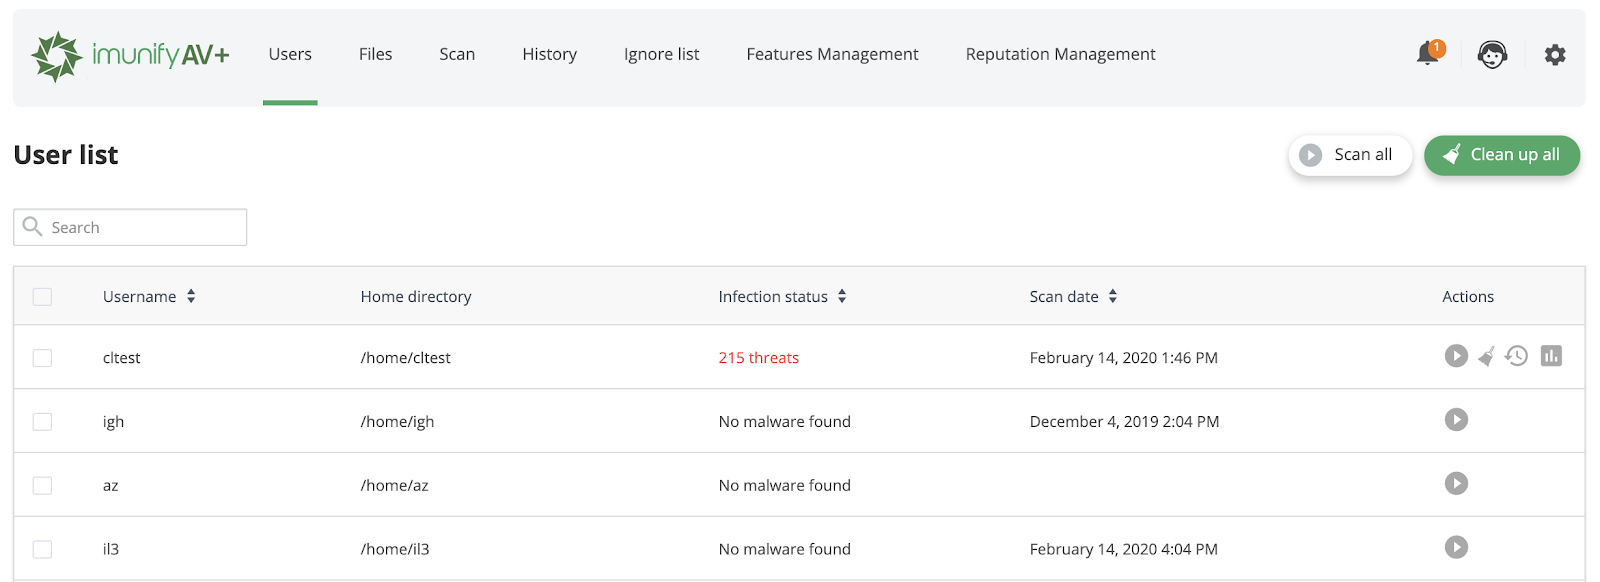
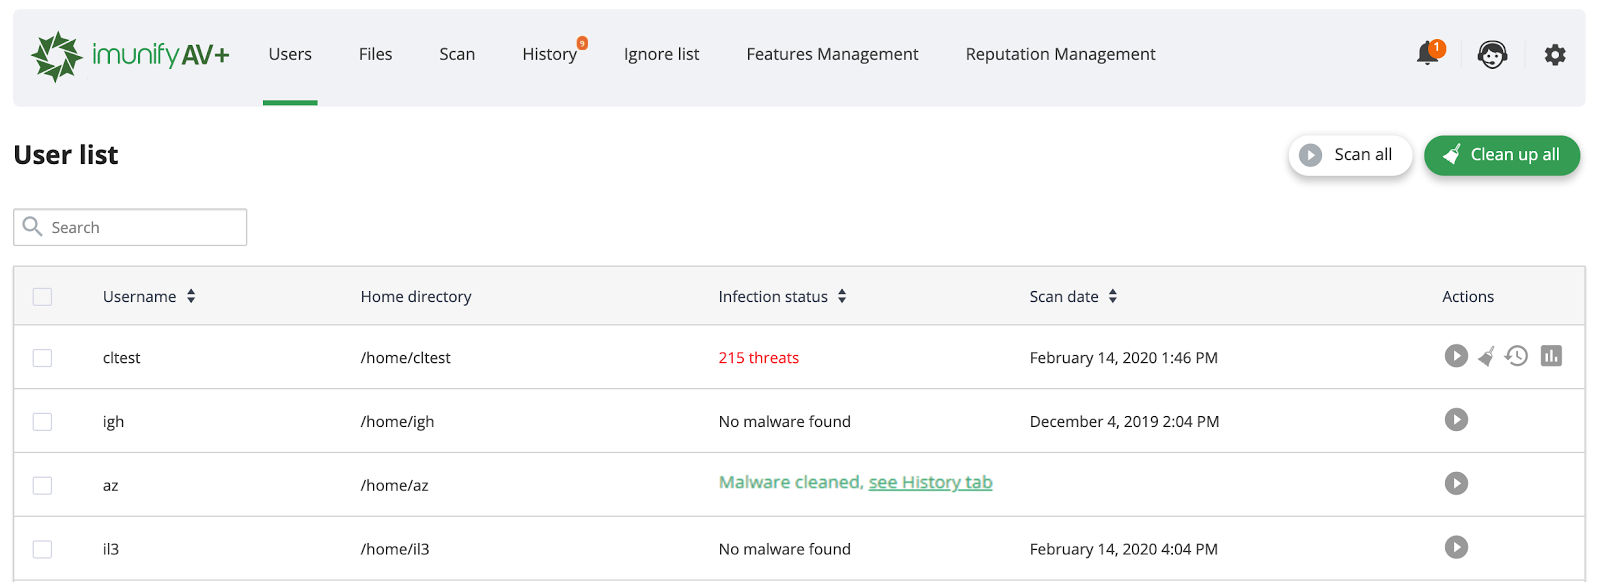
PT-1618: ImunifyAV(+) v.4.8 release documentation updates

diff --git a/docs/imunifyav/README.md b/docs/imunifyav/README.md
@@ -214,6 +214,7 @@ The table has the following columns:
   * **Cleaning up** — user's files are now cleaning up.
   * **Number of threats** — a number of infected files detected after scanning. Click to go to the _Files_ tab where you can see all malicious files.
   * **No malware found** — no malware was found during scanning.
+  * **Malware cleaned** – click a link to go to the _History_ tab and see details.
 * **Actions**:
   *  **Scan for malware** — click _Scan_ icon to start scanning files for a particular user.
   *  **View report** — click _View Report_ icon to go to the _Files_ tab and display the results of the last scan.
@@ -223,6 +224,8 @@ The table has the following columns:
 :::tip Note
 Cleaning up all files of all users and scanning all files is available in ImunifyAV+. To upgrade to ImunifyAV+, click **Upgrade to ImunifyAV+** , you will be redirected to the [ImunifyAV+ upgrade](/imunifyav/#upgrade) page. Or click _Cleanup all_ button, you will be redirected to the [ImunifyAV+ upgrade](/imunifyav/#upgrade) page.
 :::
+
+The badge in the _History_ tab shows the number of missed events in the Malware Scanner’s History.
 
 The following filters are available:
 
@@ -614,6 +617,8 @@ Actions:
 * **Restore original<sup> AV+</sup>** — click _Restore original_ to restore original file after cleaning up if backup is available.
 
 To perform a bulk action, tick required users and click the corresponding button above the table.
+
+If a user is allowed by the administrator to run a scan at any time on his own, he can see the _Start scanning_ button.
 
 The following filters are available:
 
